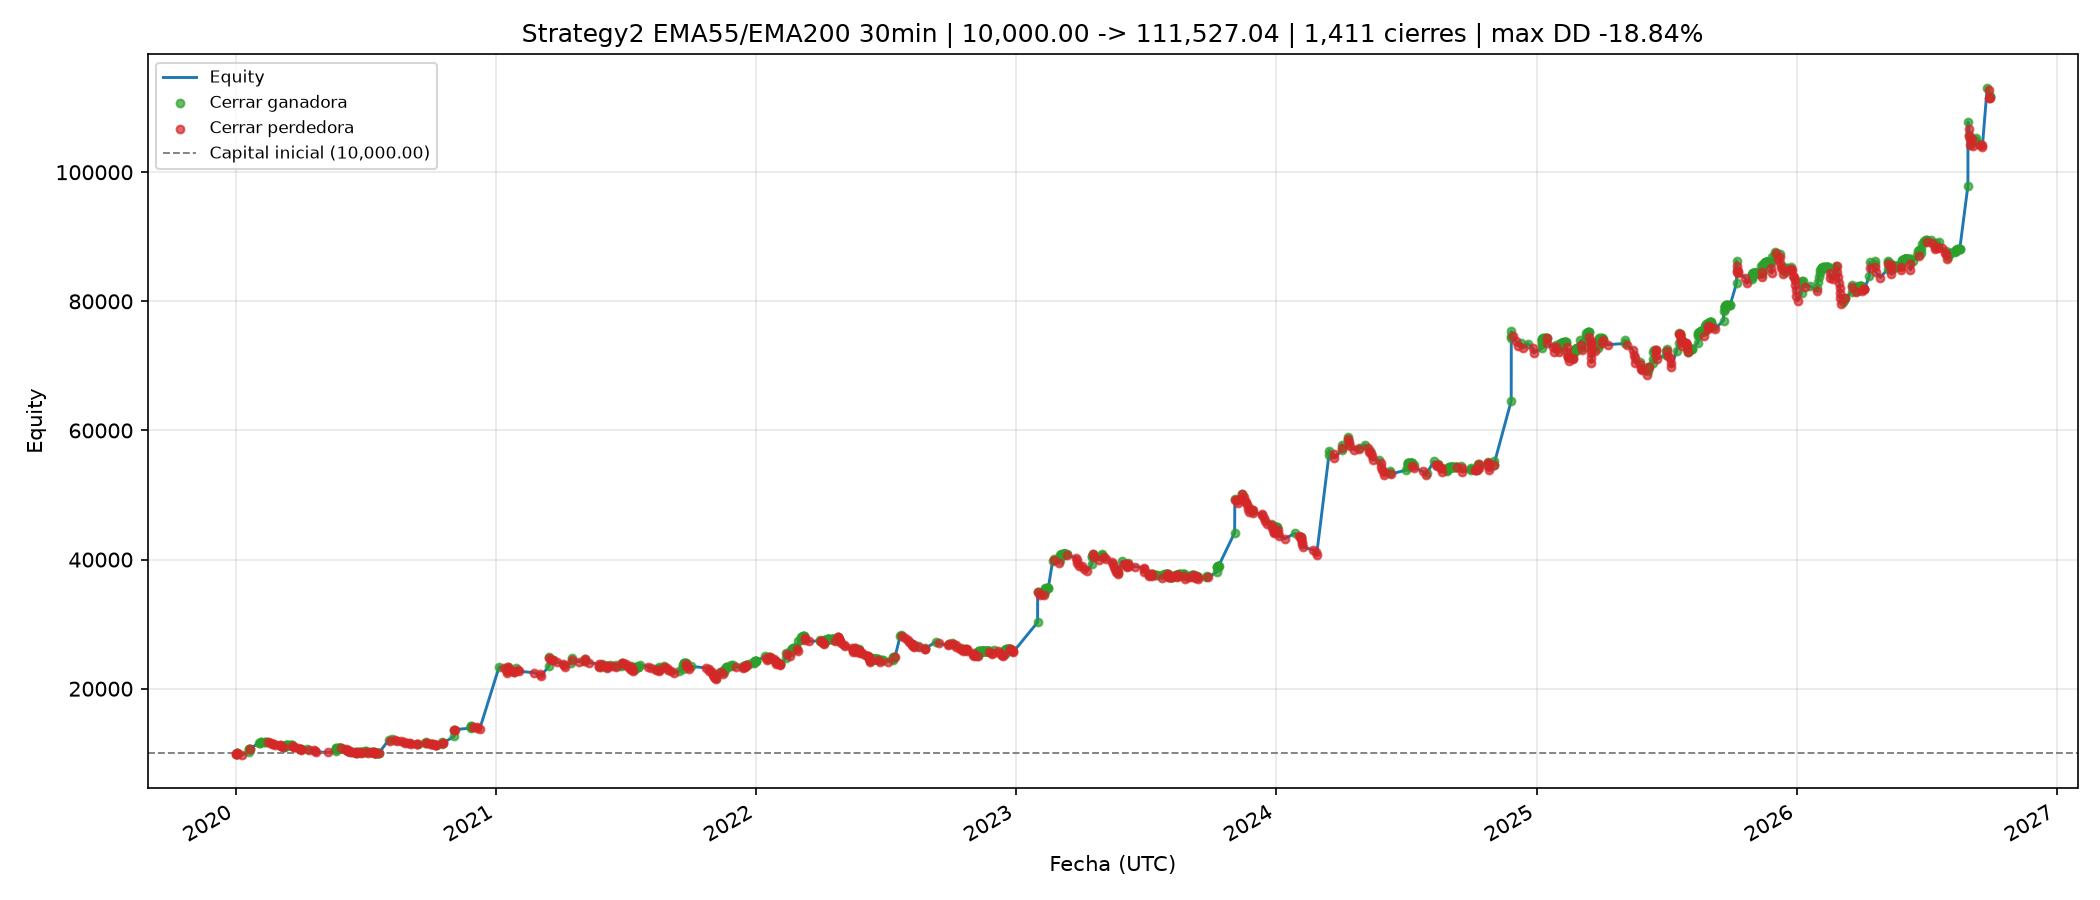
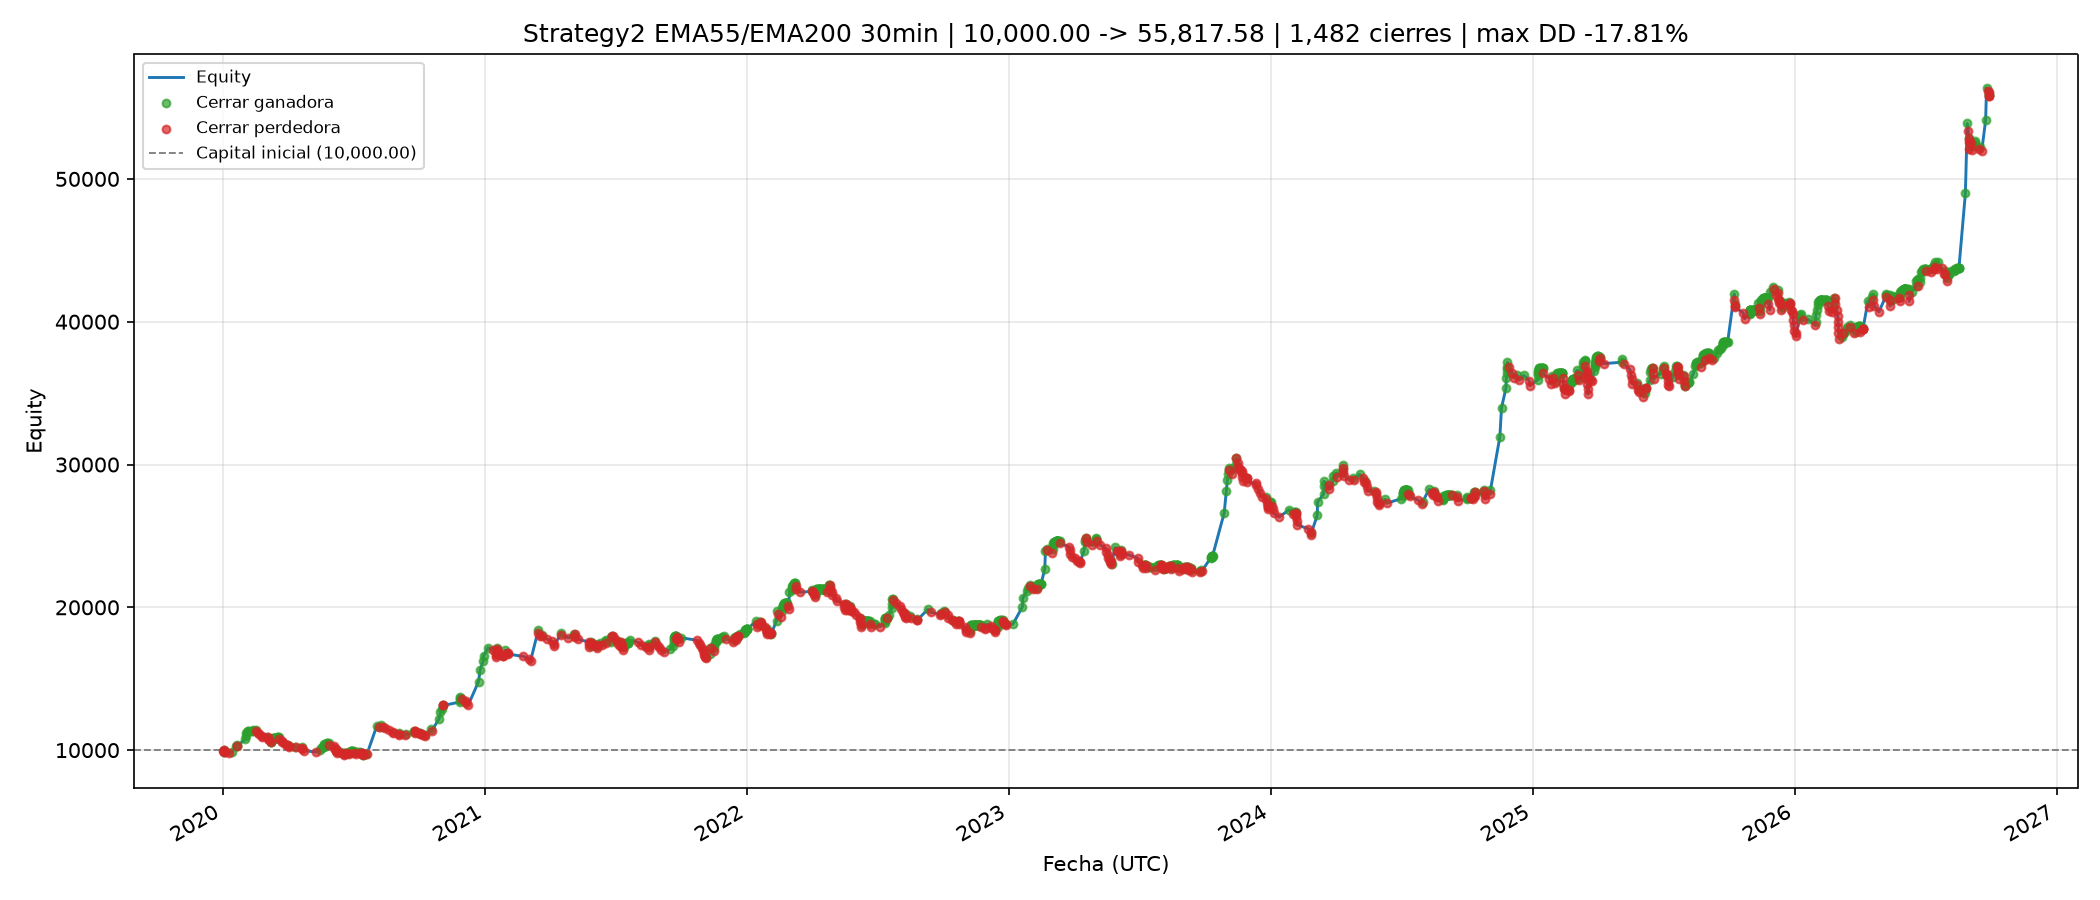
update

diff --git a/backend/services/backtest/bin/legacy/strategy/strategy2.py b/backend/services/backtest/bin/legacy/strategy/strategy2.py
@@ -19,12 +19,12 @@ Reglas:
         estrategia (30m), cuando el RSI cruza A LA BAJA el nivel
         `rsi_exit_level` (32) se cierra el % `rsi_exit_pct` del
         SHORT abierto. No aplica a LONG.
-    SALIDA POR DEBILITAMIENTO DEL 30m -> cuando el gap entre la EMA
-        rápida y la EMA lenta del timeframe de la estrategia cae por
-        debajo de `ema_weakening_gap_pct` (las EMAs se acercan y la
-        tendencia pierde fuerza) se cierra el %
-        `ema_weakening_exit_pct` de la posición. Aplica a LONG y
-        SHORT.
+        SALIDA POR DEBILITAMIENTO -> cuando el gap entre la EMA
+        rápida y la EMA lenta (en `ema_weakening_timeframe`, que por
+        defecto es 15min) cae por debajo de
+        `ema_weakening_gap_pct` (las EMAs se acercan y la tendencia
+        pierde fuerza) se cierra el % `ema_weakening_exit_pct` de la
+        posición. Aplica a LONG y SHORT.
 
 La entrada sigue siendo SOLO el cruce de EMAs. No hay ATR.
 
@@ -111,10 +111,16 @@ class Config:
     rsi_exit_level: float = 32.0
     rsi_exit_pct: float = 50.0
 
-    # Salida parcial por debilitamiento del timeframe de la
-    # estrategia: el gap |EMAfast-EMAslow|/EMAslow cae por debajo de
+    # Salida parcial por debilitamiento: el gap
+    # |EMAfast-EMAslow|/EMAslow cae por debajo de
     # `ema_weakening_gap_pct`.
+    # `ema_weakening_timeframe` es configurable: por defecto se usan
+    # velas de 15min; si se deja vacío se usa el timeframe de la
+    # estrategia; si se indica otro (p.ej. "4h", "1d") las EMAs se
+    # calculan en ese timeframe y la señal se alinea a las velas de
+    # la estrategia.
     ema_weakening_exit_enabled: bool = True
+    ema_weakening_timeframe: str = "15min"
     ema_weakening_gap_pct: float = 0.001
     ema_weakening_exit_pct: float = 50.0
 
@@ -186,6 +192,14 @@ class Config:
                 )
 
         if self.ema_weakening_exit_enabled:
+
+            if self.ema_weakening_timeframe and (
+                pd.Timedelta(self.ema_weakening_timeframe)
+                <= pd.Timedelta(0)
+            ):
+                raise ValueError(
+                    "ema_weakening_timeframe debe ser > 0."
+                )
 
             if self.ema_weakening_gap_pct <= 0:
                 raise ValueError(
@@ -934,6 +948,89 @@ def build_rsi_exit(
     return rsi_exit_flags(rsi, cfg.rsi_exit_level)
 
 
+def _ema_weakening_flags_for_bars(
+    bars: pd.DataFrame,
+    cfg: Config,
+) -> np.ndarray:
+
+    """Calcula las flags de debilitamiento sobre `bars` ya remuestreados."""
+
+    ef = ema_closed(bars["close"], cfg.ema_fast).to_numpy(float)
+    es = ema_closed(bars["close"], cfg.ema_slow).to_numpy(float)
+
+    return ema_weakening_flags(
+        ef,
+        es,
+        cfg.ema_weakening_gap_pct,
+    )
+
+
+def build_ema_weakening_exit(
+    raw: pd.DataFrame,
+    bars: pd.DataFrame,
+    cfg: Config,
+) -> Optional[np.ndarray]:
+
+    """
+    Señales de debilitamiento en `ema_weakening_timeframe` alineadas
+    a las velas de la estrategia.
+
+    - `ema_weakening_timeframe` vacío o igual al de la estrategia:
+      se calculan las flags directamente sobre `bars` (1:1).
+    - `ema_weakening_timeframe` más grueso: se remuestrea `raw`,
+      se calculan las EMAs ahí y, para cada vela de la estrategia,
+      se toma la última vela de debilitamiento ya cerrada en su
+      cierre (sin lookahead).
+    - `ema_weakening_timeframe` más fino que el dataset de origen:
+      no es posible; se cae al timeframe de la estrategia.
+
+    Devuelve `None` si está deshabilitado o no hay datos suficientes.
+    """
+
+    if not cfg.ema_weakening_exit_enabled or len(bars) == 0:
+        return None
+
+    if cfg.ema_weakening_gap_pct <= 0:
+        return None
+
+    tf = cfg.ema_weakening_timeframe or cfg.timeframe
+
+    # Señal alineada 1:1 con las velas de la estrategia.
+    if not cfg.ema_weakening_timeframe or (
+        pd.Timedelta(tf) == pd.Timedelta(cfg.timeframe)
+    ):
+        return _ema_weakening_flags_for_bars(bars, cfg)
+
+    target = pd.Timedelta(tf)
+
+    source_minutes = _source_minutes(raw)
+
+    # No se puede remuestrear por debajo del origen: usamos el
+    # timeframe de la estrategia.
+    if pd.Timedelta(minutes=source_minutes) >= target:
+        return _ema_weakening_flags_for_bars(bars, cfg)
+
+    bars_low = resample_ohlcv(raw, tf, source_minutes)
+
+    if len(bars_low) < cfg.ema_slow + 2:
+        return None
+
+    flags = _ema_weakening_flags_for_bars(bars_low, cfg)
+
+    low_end = (bars_low.index + target).asi8
+    bar_close = (bars.index + pd.Timedelta(cfg.timeframe)).asi8
+
+    pos = np.searchsorted(low_end, bar_close, side="right") - 1
+
+    out = np.zeros(len(bars), dtype=bool)
+
+    ok = pos >= 0
+
+    out[ok] = flags[pos[ok]]
+
+    return out
+
+
 
 # ---------------------------------------------------------------------------
 # Reporte / métricas (mismo contrato que strategy1)
@@ -1462,9 +1559,13 @@ def print_report(
 
     if cfg.ema_weakening_exit_enabled:
 
+        weakening_tf = (
+            cfg.ema_weakening_timeframe or cfg.timeframe
+        )
+
         print(
             f"Weakening exit  : "
-            f"gap EMAs {cfg.timeframe} < "
+            f"gap EMAs {weakening_tf} < "
             f"{cfg.ema_weakening_gap_pct:.4%} -> "
             f"cierra {cfg.ema_weakening_exit_pct:g}%"
         )
@@ -1734,6 +1835,7 @@ class Strategy2Backtester:
         verbose: bool = False,
         adx_exit: Optional[np.ndarray] = None,
         rsi_exit: Optional[np.ndarray] = None,
+        weak_exit: Optional[np.ndarray] = None,
     ):
 
         self.data = data
@@ -1752,17 +1854,21 @@ class Strategy2Backtester:
 
         self.sig = build_features(data, config)
 
-        if (
-            config.ema_weakening_exit_enabled
-            and config.ema_weakening_gap_pct > 0
-        ):
-            self.weak_exit = ema_weakening_flags(
-                self.sig["ef"],
-                self.sig["es"],
-                config.ema_weakening_gap_pct,
-            )
-        else:
-            self.weak_exit = np.zeros(len(data), dtype=bool)
+        if weak_exit is None or len(weak_exit) != len(data):
+
+            if (
+                config.ema_weakening_exit_enabled
+                and config.ema_weakening_gap_pct > 0
+            ):
+                weak_exit = ema_weakening_flags(
+                    self.sig["ef"],
+                    self.sig["es"],
+                    config.ema_weakening_gap_pct,
+                )
+            else:
+                weak_exit = np.zeros(len(data), dtype=bool)
+
+        self.weak_exit = np.asarray(weak_exit, dtype=bool)
 
         self.o = data["open"].to_numpy(float)
         self.h = data["high"].to_numpy(float)
@@ -2206,8 +2312,12 @@ class Strategy2Backtester:
             else f"{rsi_reason}_{rsi_exit_pct:g}%"
         )
 
+        weakening_tf = (
+            cfg.ema_weakening_timeframe or cfg.timeframe
+        )
+
         weakening_reason = (
-            f"EMA_WEAKENING_{cfg.timeframe.upper()}"
+            f"EMA_WEAKENING_{weakening_tf.upper()}"
         )
 
         weakening_exit_pct = float(
@@ -2294,8 +2404,8 @@ class Strategy2Backtester:
                     if current != target:
                         new_target = target
 
-                # Salidas parciales (debilitamiento 30m / ADX 5m /
-                # RSI 30m): solo si no hay un cruce contrario que ya
+                # Salidas parciales (debilitamiento / ADX / RSI):
+                # solo si no hay un cruce contrario que ya
                 # revertiría.
                 if (
                     new_target is None
@@ -2562,6 +2672,16 @@ def parse_args():
     )
 
     p.add_argument(
+        "--ema-weakening-timeframe",
+        default=d.ema_weakening_timeframe,
+        help=(
+            "Timeframe donde se calculan las EMAs de la salida por "
+            "debilitamiento. Vacío = el de la estrategia; p.ej. "
+            "'15min', '4h', '1d' (default: 15min)."
+        ),
+    )
+
+    p.add_argument(
         "--ema-weakening-exit-pct",
         type=float,
         default=d.ema_weakening_exit_pct,
@@ -2703,6 +2823,7 @@ def make_config(args) -> Config:
         rsi_exit_level=args.rsi_exit_level,
         rsi_exit_pct=args.rsi_exit_pct,
         ema_weakening_exit_enabled=args.ema_weakening_exit,
+        ema_weakening_timeframe=args.ema_weakening_timeframe,
         ema_weakening_gap_pct=args.ema_weakening_gap_pct,
         ema_weakening_exit_pct=args.ema_weakening_exit_pct,
         force_close_at_end=not args.no_force_close,
@@ -2817,12 +2938,39 @@ def main():
                 flush=True,
             )
 
+    weak_exit = build_ema_weakening_exit(raw, data, cfg)
+
+    if cfg.ema_weakening_exit_enabled:
+
+        weakening_tf = (
+            cfg.ema_weakening_timeframe or cfg.timeframe
+        )
+
+        if weak_exit is None:
+
+            print(
+                "[WEAKENING] salida por debilitamiento deshabilitada: "
+                "hay muy pocas velas en el timeframe indicado.",
+                flush=True,
+            )
+
+        else:
+
+            print(
+                f"[WEAKENING] gap EMAs en {weakening_tf} | "
+                f"umbral={cfg.ema_weakening_gap_pct:.4%} | "
+                f"exit={cfg.ema_weakening_exit_pct:g}% | "
+                f"señales={int(weak_exit.sum()):,}",
+                flush=True,
+            )
+
     engine = Strategy2Backtester(
         data,
         cfg,
         verbose=args.verbose,
         adx_exit=adx_exit,
         rsi_exit=rsi_exit,
+        weak_exit=weak_exit,
     )
 
     trades, equity = engine.run()
